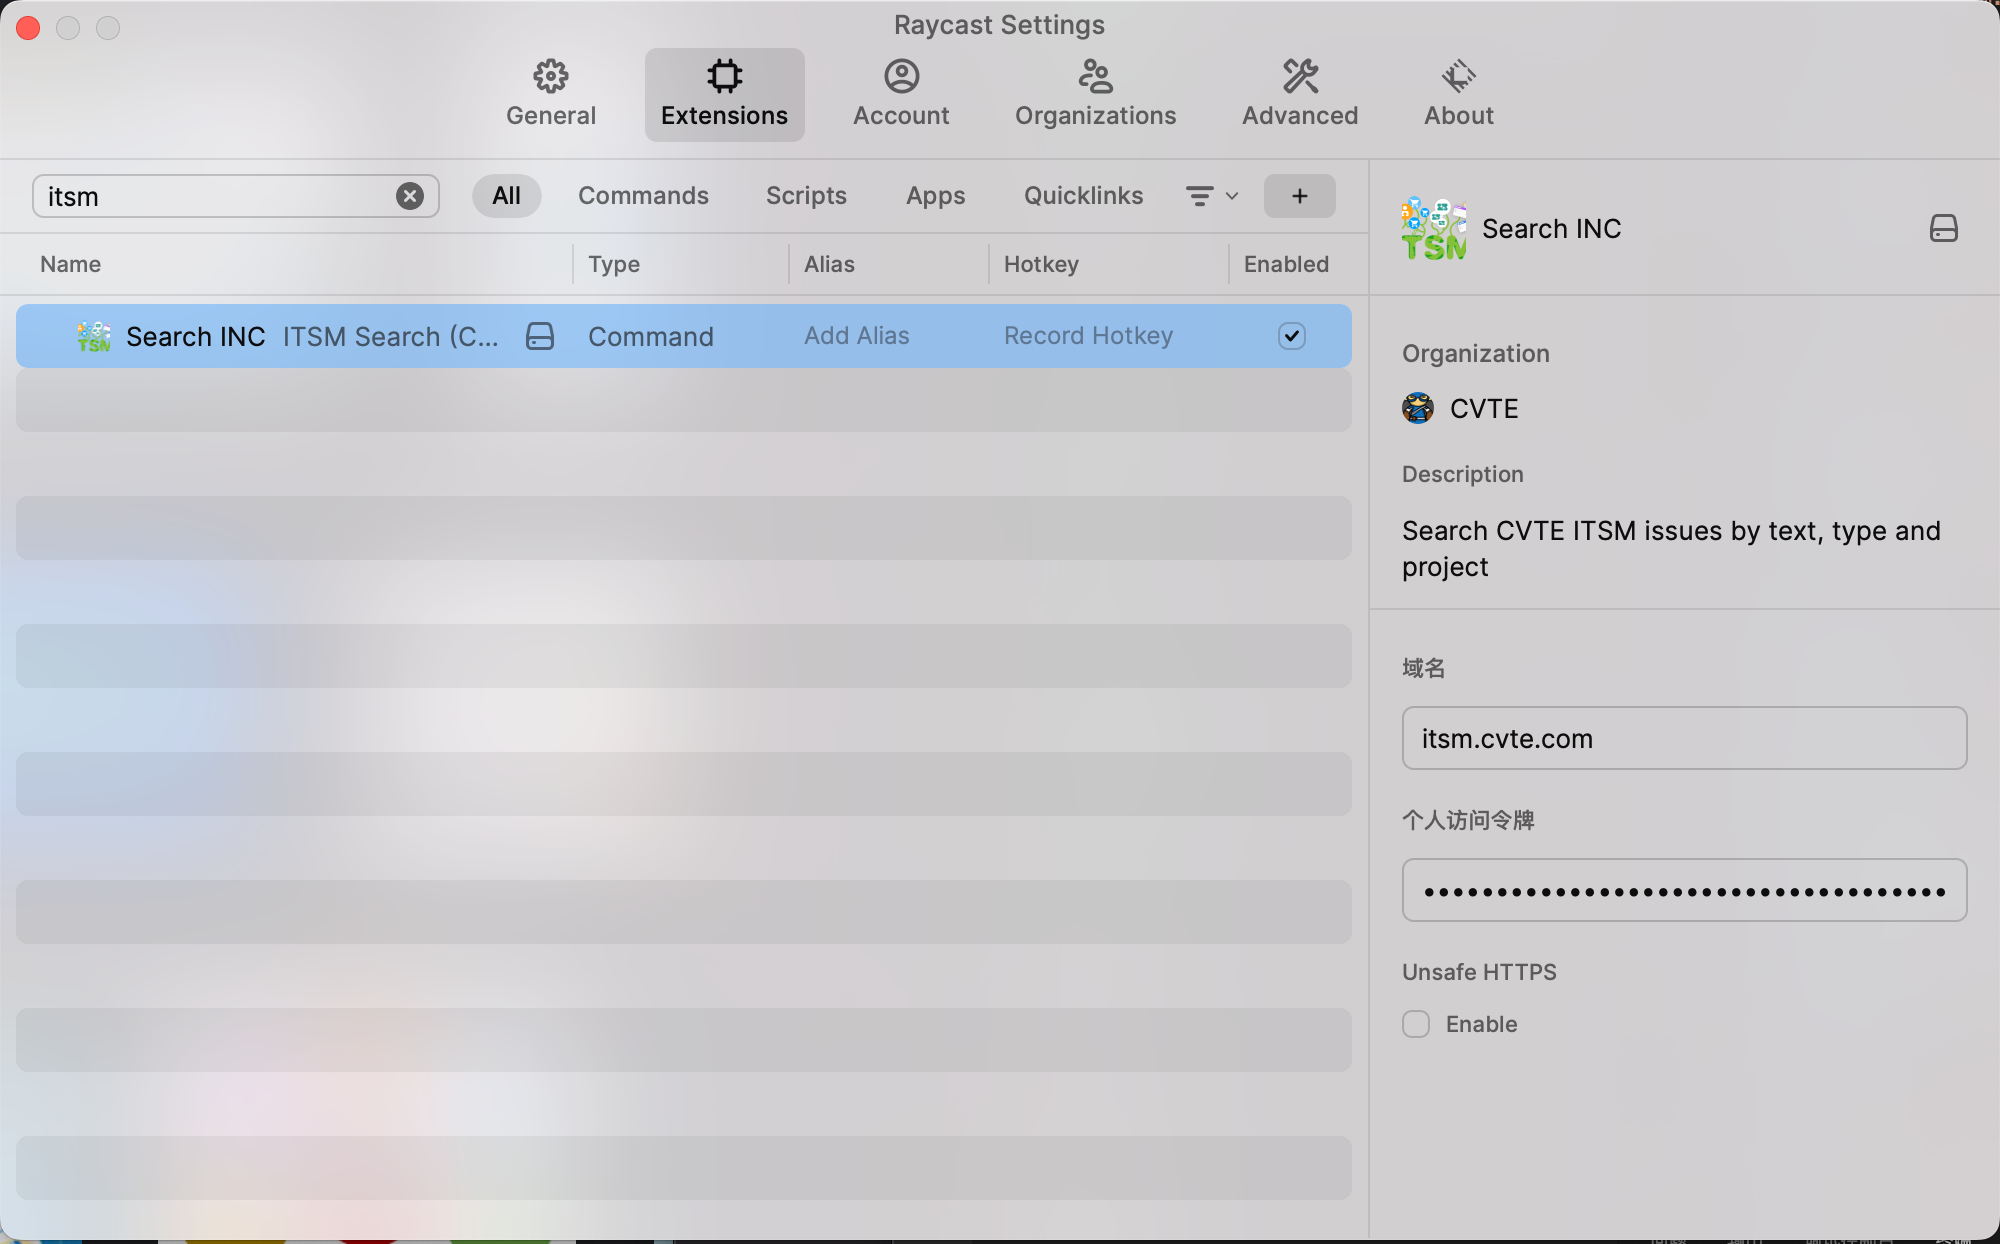
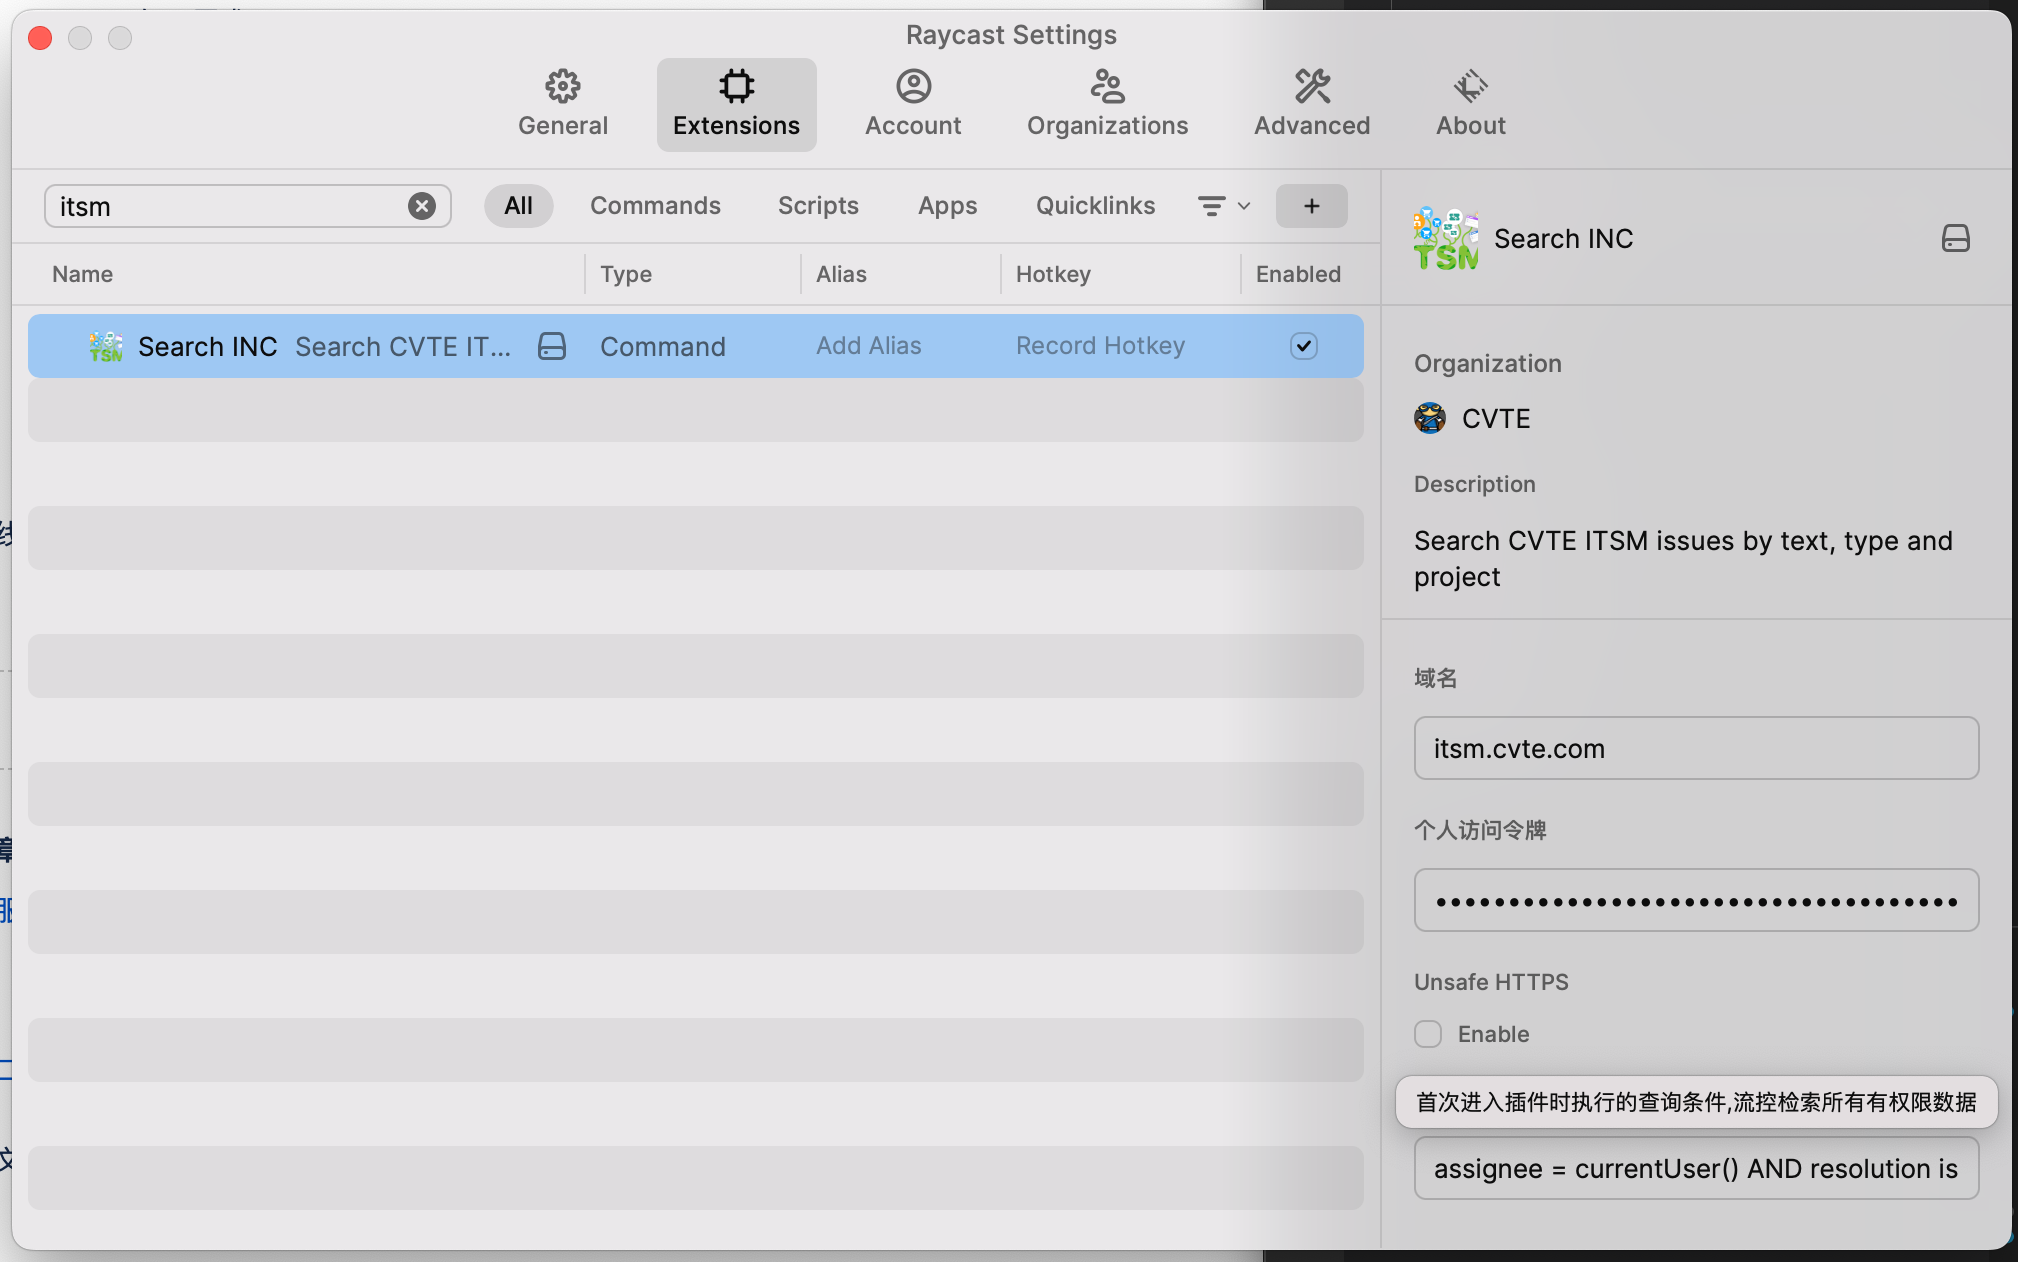
增加缺省JQL规则

diff --git a/raycast-extensions/itsm-search/src/issue.ts b/raycast-extensions/itsm-search/src/issue.ts
@@ -1,4 +1,4 @@
-import { jiraFetchObject, jiraUrl } from "./jira";
+import { jiraFetchObject, jiraUrl, defaultJQL } from "./jira";
 import { jiraImage } from "./image";
 import { ResultItem, SearchCommand } from "./command";
 import { Color, Icon, Image } from "@raycast/api";
@@ -61,7 +61,7 @@ function isIssueKey(query: string): boolean {
   return query.match(issueKeyPattern) !== null;
 }
 
-// 拼接JQL
+// 拼接构建JQL
 function buildJql(query: string): string {
   const spaceAndInvalidChars = /[ "]/;
 
@@ -104,7 +104,12 @@ function buildJql(query: string): string {
   ];
 
   const jql = jqlConditions.filter((condition) => condition !== undefined).join(" AND ");
-  return jql + " order by lastViewed desc";
+  if(jql) {
+    var cusjql = `${jql}  order by lastViewed desc`;
+  } else {
+    var cusjql = `${defaultJQL} order by lastViewed desc`;
+  }
+  return cusjql;
 }
 
 function jqlFor(query: string): string {
@@ -114,7 +119,6 @@ function jqlFor(query: string): string {
 // 事件查询接口调用
 export async function searchIssues(query: string): Promise<ResultItem[]> {
   const jql = jqlFor(query);
-  console.debug(jql);
   const result = await jiraFetchObject<Issues>(
     "/rest/api/2/search",
     { jql, fields },

diff --git a/raycast-extensions/itsm-search/src/jira.ts b/raycast-extensions/itsm-search/src/jira.ts
@@ -3,8 +3,9 @@ import fetch, { FetchError, Response } from "node-fetch";
 import { ErrorText, PresentableError } from "./exception";
 import * as https from "https";
 
-const prefs: { domain: string; token: string; unsafeHTTPS: boolean } = getPreferenceValues();
+const prefs: { domain: string; token: string; unsafeHTTPS: boolean; defaultjql: string } = getPreferenceValues();
 export const jiraUrl = `https://${prefs.domain}`;
+export const defaultJQL = prefs.defaultjql;
 
 const headers = {
   Accept: "application/json",
